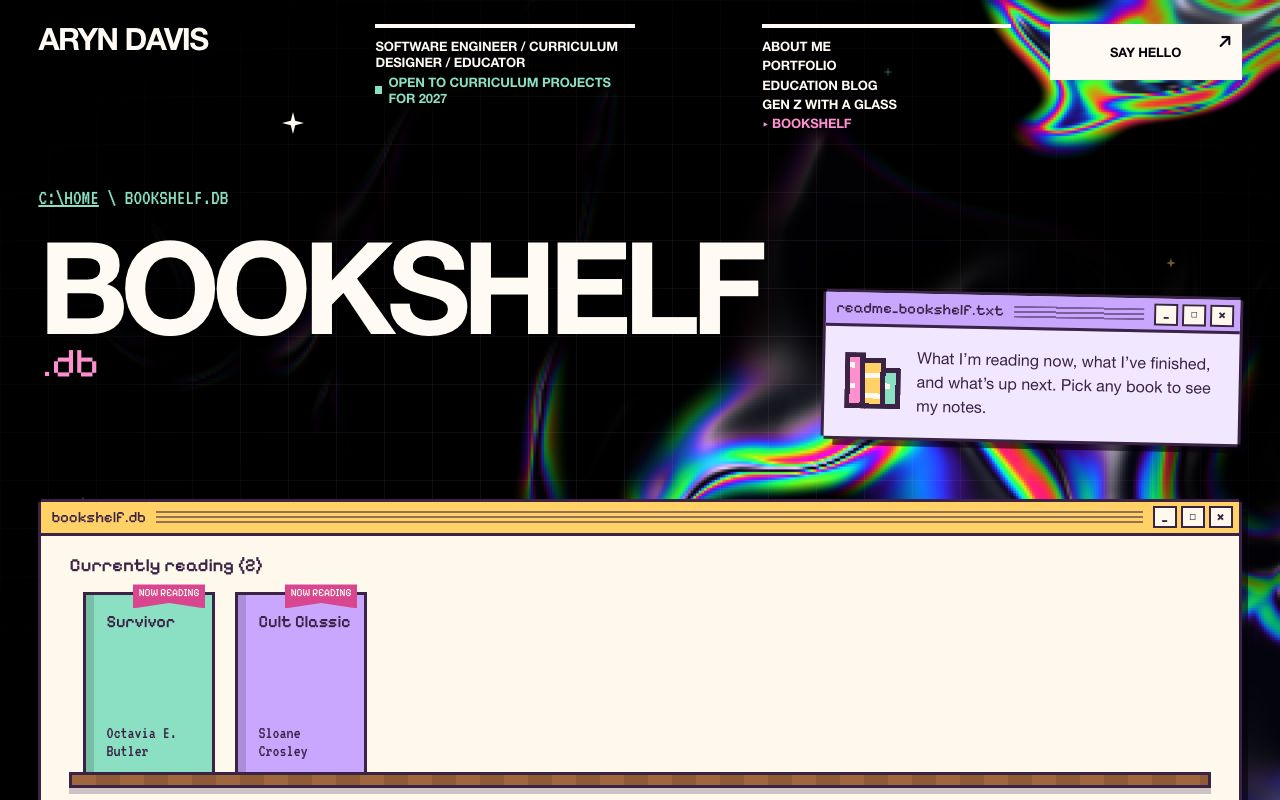
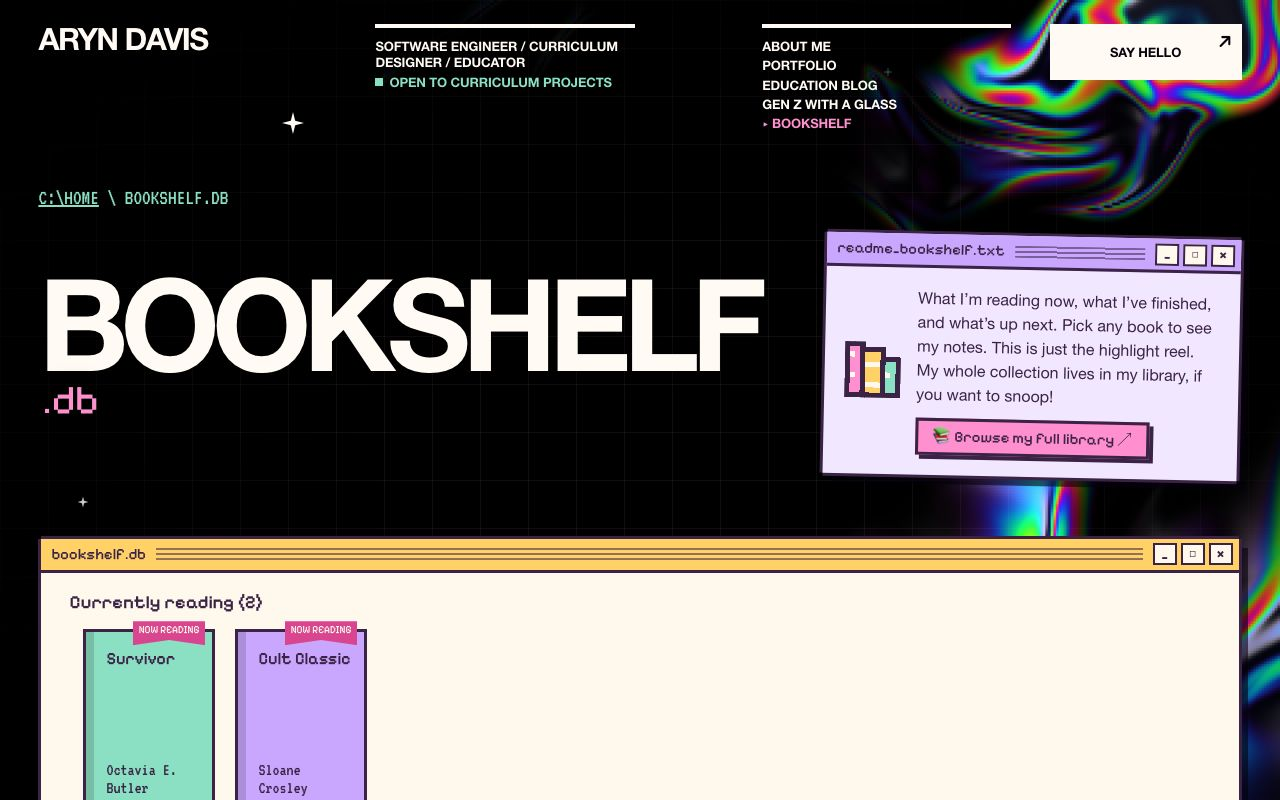
Bookshelf: link to the full library

diff --git a/src/pages/Bookshelf.tsx b/src/pages/Bookshelf.tsx
@@ -6,7 +6,7 @@ import Rating from '../components/Rating'
 import { books, type Book, type BookStatus } from '../content/books'
 import { formatDate } from '../content/types'
 import { href } from '../router'
-import { bookshelf } from '../site'
+import { bookshelf, site } from '../site'
 
 const newestFirst = (list: Book[]) => [...list].sort((a, b) => (b.date ?? '').localeCompare(a.date ?? ''))
 const bookLink = (book: Book) => href(`${bookshelf.path}/${book.slug}`)
@@ -118,7 +118,14 @@ export default function BookshelfPage({ slug }: { slug?: string }) {
         <PixelWindow title="readme_bookshelf.txt" tone="lilac" className="page-intro">
           <div className="intro-row">
             <PixelIcon name="books" size={56} />
-            <p>{bookshelf.blurb}</p>
+            <div>
+              <p>
+                {bookshelf.blurb} This is just the highlight reel. My whole collection lives in my library, if you want to snoop!
+              </p>
+              <a className="pixel-button library-link" href={site.library} target="_blank" rel="noopener noreferrer">
+                📚 Browse my full library ↗
+              </a>
+            </div>
           </div>
         </PixelWindow>
       </section>

diff --git a/src/styles.css b/src/styles.css
@@ -1119,15 +1119,18 @@ button.pixel-button:active {
   gap: 12px;
 }
 
-.pixel-button.substack-link {
+.pixel-button.substack-link,
+.pixel-button.library-link {
   background: var(--pink);
 }
 
-a.pixel-button.substack-link:hover {
+a.pixel-button.substack-link:hover,
+a.pixel-button.library-link:hover {
   background: var(--yellow);
 }
 
-.intro-row .substack-link {
+.intro-row .substack-link,
+.intro-row .library-link {
   margin-top: 12px;
 }
 

diff --git a/src/site.ts b/src/site.ts
@@ -11,6 +11,8 @@ export const site = {
   linkedin: 'https://www.linkedin.com/in/aryn-davis',
   instagram: 'https://www.instagram.com/aryn.creates',
   substack: 'https://arynlynn.substack.com',
+  /** The full personal library app (its own repo: aryndavis/bookshelf). */
+  library: 'https://library.arynlynn.com',
   year: new Date().getFullYear(),
 }
 
